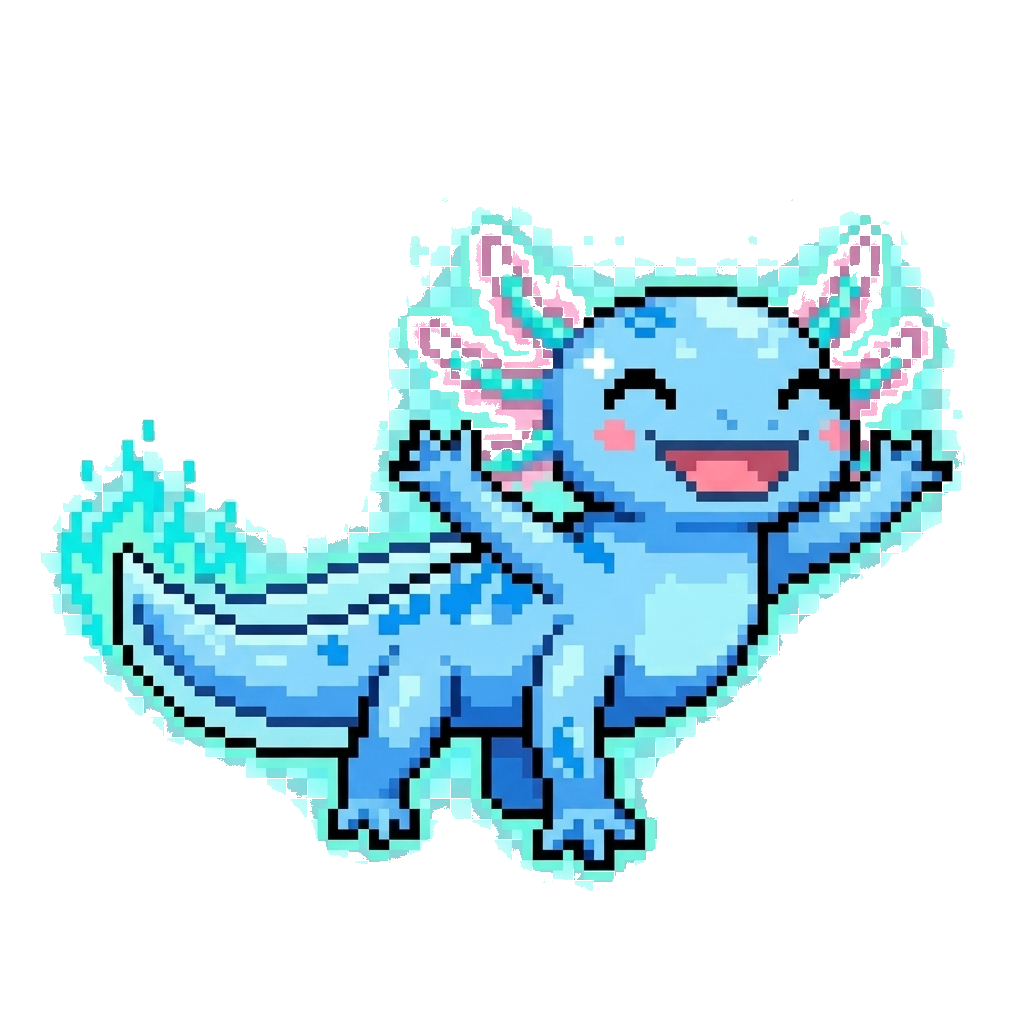
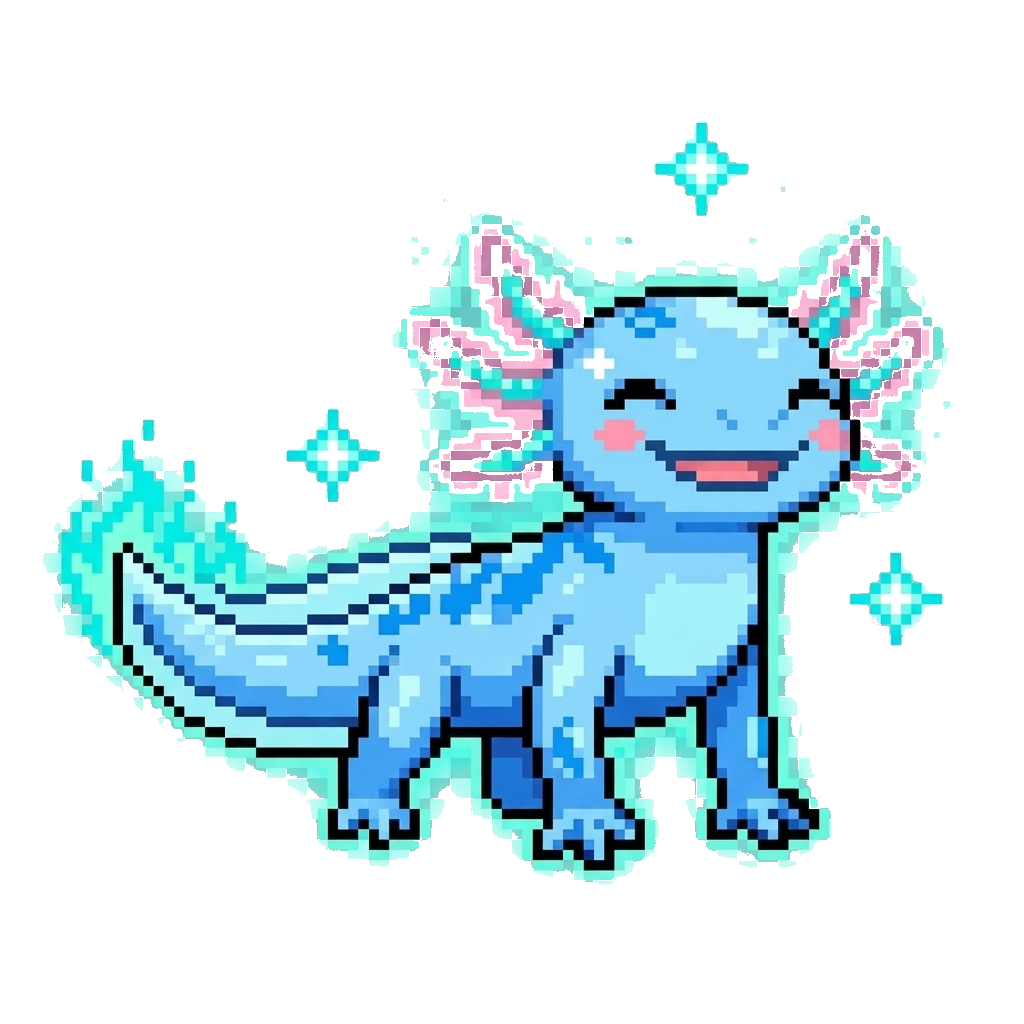
Bump HA-chores to 0.5.3: fix blue mythic anatomy + match blue egg scale to orange
- Blue mythic "happy" regenerated with a constrained prompt that forbids
  adding extra limbs. The previous version had multiple arms because the
  edit had to convert a quadrupedal idle into a bipedal cheer pose.
- Blue egg sprites (idle / happy / petted) were generated with the subject
  occupying ~46% of the canvas while orange filled ~68%, so they rendered
  noticeably smaller in the household view. Rescaled the blue subjects to
  match each orange variant's bounding-box size (nearest-neighbor to
  preserve pixel-art chunkiness).

diff --git a/chores/CHANGELOG.md b/chores/CHANGELOG.md
@@ -1,3 +1,7 @@
+## 0.5.3
+- Sprite fixes — blue mythic "happy" regenerated (the previous version had extra limbs because the model re-posed the quadrupedal idle into a bipedal cheer)
+- Blue egg sprites (idle / happy / petted) rescaled to match the orange egg's subject size so both designs render at the same on-screen scale; nearest-neighbor upscale preserves pixel-art chunkiness
+
 ## 0.5.2
 - Add **happy** and **petted** sprites for every pet evolution stage — 20 new pixel-art assets (5 stages × 2 designs × 2 states) so the pet visibly reacts at every life stage, not just as an adult
 - Each stage's "happy" sprite shows raised arms / open-mouth grin / brighter aura; the "petted" sprite shows closed eyes in bliss / soft smile / floating heart symbols. Egg stage uses a softer glow + sparkles (happy) or hearts around the orb (petted)
